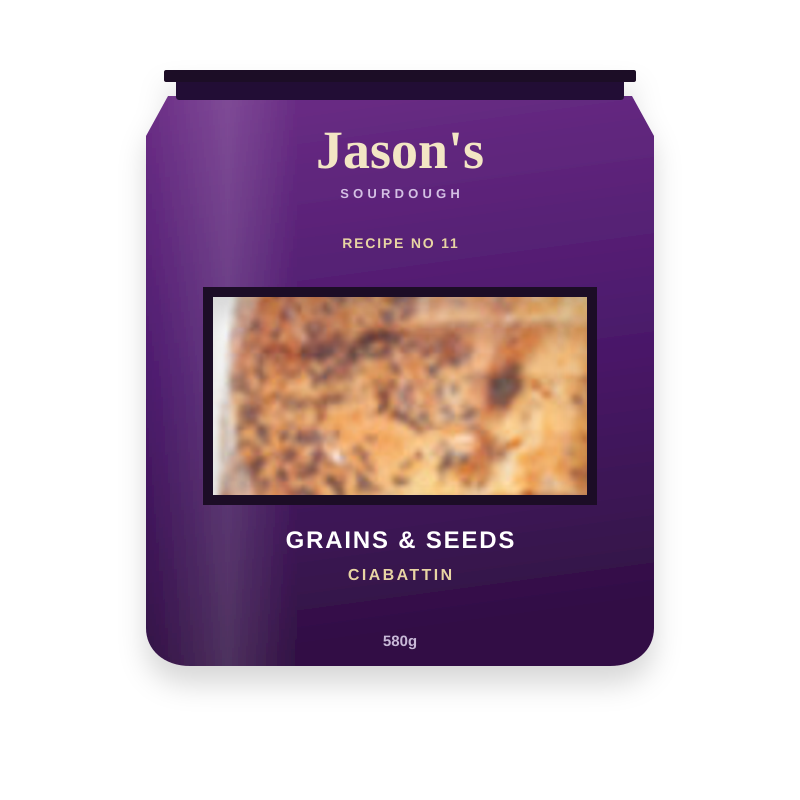
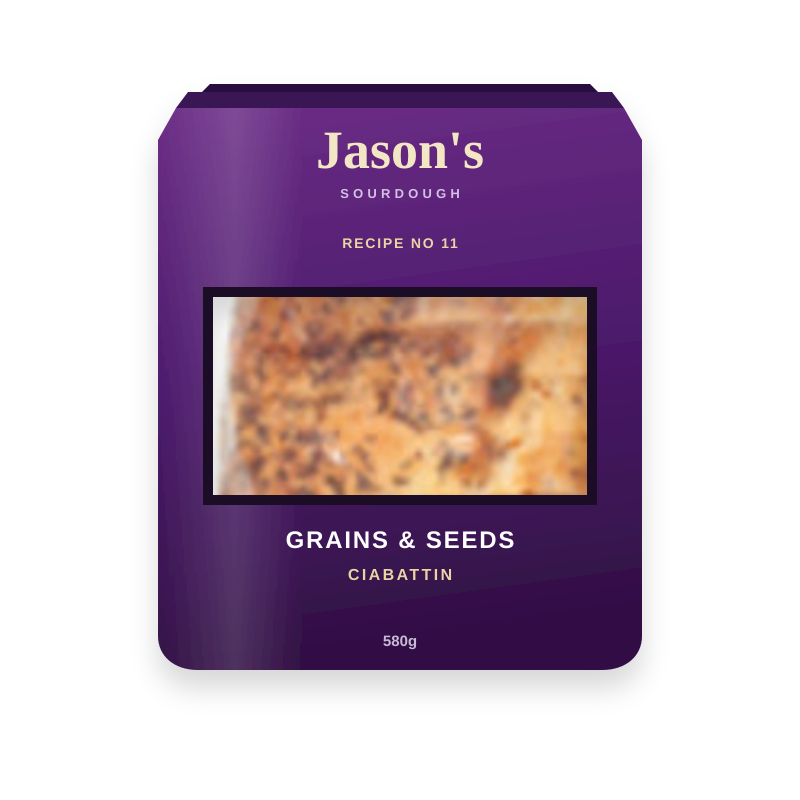
Match Instacart aisle thumbs, green checkout, and Kirk lockup
Browse aisles now uses circular product thumbs, checkout uses Same-Day Instacart green, and Ask Kirk gets the official KIRKLAND / SIGNATURE rule plus a membership-card welcome. Jason's bag fold no longer reads as a jar lid.

Changed region(s): [[0.1562, 0.0625, 0.8438, 0.8438]]

diff --git a/components/AskKirkChat.tsx b/components/AskKirkChat.tsx
@@ -502,11 +502,12 @@ export default function AskKirkChat({ isOpen, onClose }: AskKirkChatProps) {
               <h2 className="text-[17px] font-black tracking-tight text-white leading-none">
                 Ask Kirk
               </h2>
-              <p className="mt-[5px] leading-none">
-                <span className="block text-[10px] font-extrabold tracking-[0.22em] text-white uppercase">
+              <p className="mt-[6px] leading-none">
+                <span className="block text-[10px] font-extrabold tracking-[0.24em] text-white uppercase">
                   Kirkland
                 </span>
-                <span className="block text-[9px] font-bold tracking-[0.28em] text-white/80 uppercase mt-[2px]">
+                <span className="block w-[72px] h-px bg-white/70 my-[3px]" />
+                <span className="block text-[9px] font-bold tracking-[0.32em] text-white/85 uppercase">
                   Signature
                 </span>
               </p>
@@ -535,7 +536,7 @@ export default function AskKirkChat({ isOpen, onClose }: AskKirkChatProps) {
         </div>
         <div className="h-[3px] bg-costco-blue" />
         <p className="px-3.5 py-1.5 flex items-center gap-1.5 text-[11px] text-[#188038] font-semibold bg-[#f3f3f3] border-b border-[#ececec]">
-          <span className="w-1.5 h-1.5 rounded-full bg-[#188038]" />
+          <span className="w-1.5 h-1.5 rounded-full bg-[#0AAD0A]" />
           Delivery 8:48–9:18pm · 11217 Brooklyn · Membership required
         </p>
         {kirkCartCount > 0 && (
@@ -592,13 +593,17 @@ export default function AskKirkChat({ isOpen, onClose }: AskKirkChatProps) {
                 <p className="text-[13px] leading-relaxed text-[#333] whitespace-pre-line">
                   {message.content}
                 </p>
-                <div className="mt-2.5 flex items-center gap-2 rounded-[8px] bg-[#f3f3f3] px-2.5 py-1.5">
-                  <span className="inline-flex h-5 items-center rounded-[3px] bg-costco-red px-1.5 text-[9px] font-black tracking-wide text-white">
-                    MEMBER
-                  </span>
-                  <p className="text-[11px] text-[#555] font-semibold">
-                    Same-Day requires a Costco membership
-                  </p>
+                <div className="mt-2.5 overflow-hidden rounded-[8px] border border-[#e5e5e5]">
+                  <div className="h-[3px] bg-costco-red" />
+                  <div className="flex items-center gap-2 bg-[#f7f7f7] px-2.5 py-1.5">
+                    <span className="inline-flex h-5 items-center rounded-[3px] bg-costco-red px-1.5 text-[9px] font-black tracking-wide text-white">
+                      MEMBER
+                    </span>
+                    <p className="text-[11px] text-[#555] font-semibold">
+                      Same-Day requires a Costco membership
+                    </p>
+                  </div>
+                  <div className="h-[3px] bg-costco-blue" />
                 </div>
                 </div>
               </div>

diff --git a/components/DepartmentsSidebar.tsx b/components/DepartmentsSidebar.tsx
@@ -4,6 +4,25 @@ import { ChevronRight } from "lucide-react";
 import { departments } from "@/lib/data/products";
 import { useCatalogStore } from "@/lib/store/catalog";
 
+const aisleThumbs: Record<string, string> = {
+  "What's New": "/products/cat-new.jpg",
+  "Weekly Savings": "/products/cat-weekly.jpg",
+  Trending: "/products/cat-trending.jpg",
+  "Kirkland Signature": "/products/cat-kirkland.jpg",
+  "Auto Accessories": "/products/13.png",
+  Babies: "/products/14.png",
+  "Bakery & Desserts": "/products/15.png",
+  "Beer, Wine & Spirits": "/products/16.png",
+  Books: "/products/17.png",
+  "Cameras & Camcorders": "/products/18.png",
+  Cleaning: "/products/19.png",
+  "Clothing & Shoes": "/products/20.png",
+  Coffee: "/products/21.png",
+  Computers: "/products/22.png",
+  "Dairy & Eggs": "/products/23.png",
+  "Prepared Foods": "/products/24.png",
+};
+
 export function MobileAisles() {
   const selected = useCatalogStore((s) => s.department);
   const setDepartment = useCatalogStore((s) => s.setDepartment);
@@ -89,14 +108,22 @@ export default function DepartmentsSidebar({
                       setQuery("");
                       void search();
                     }}
-                    className={`w-full text-left px-2.5 py-[7px] text-[13px] transition-colors border-l-[3px] flex items-center justify-between gap-1 ${
+                    className={`w-full text-left px-2 py-[6px] text-[13px] transition-colors border-l-[3px] flex items-center justify-between gap-1.5 ${
                       active
                         ? "border-costco-blue bg-[#e8f2fa] text-costco-blue font-bold"
                         : "border-transparent text-[#333] hover:bg-[#f6f6f6] hover:text-costco-blue"
                     }`}
                     title={dept}
                   >
-                    <span className="truncate">{dept}</span>
+                    <span className="flex items-center gap-2 min-w-0">
+                      {/* eslint-disable-next-line @next/next/no-img-element */}
+                      <img
+                        src={aisleThumbs[dept]}
+                        alt=""
+                        className="w-7 h-7 rounded-full object-cover bg-[#f3f3f3] border border-[#ececec] shrink-0"
+                      />
+                      <span className="truncate">{dept}</span>
+                    </span>
                     <ChevronRight
                       className={`w-3.5 h-3.5 shrink-0 ${
                         active ? "text-costco-blue" : "text-[#b0b0b0]"

diff --git a/components/CartDrawer.tsx b/components/CartDrawer.tsx
@@ -131,7 +131,7 @@ export default function CartDrawer() {
             <button
               type="button"
               onClick={closeCart}
-              className="flex-1 py-3 bg-costco-red text-white rounded-full font-bold hover:bg-costco-red-hover text-[15px]"
+              className="flex-1 py-3 bg-[#0AAD0A] text-white rounded-full font-bold hover:bg-[#099809] text-[15px]"
             >
               {items.length ? "Go to checkout" : "Browse products"}
             </button>

diff --git a/lib/data/products.ts b/lib/data/products.ts
@@ -303,7 +303,7 @@ export const products: Product[] = [
     price: 2.71,
     originalPrice: 4.0,
     savings: 1.29,
-    image: "/products/9.png?v=8",
+    image: "/products/9.png?v=9",
     inStock: true,
     tags: ["bakery"],
     rating: 3.9,
